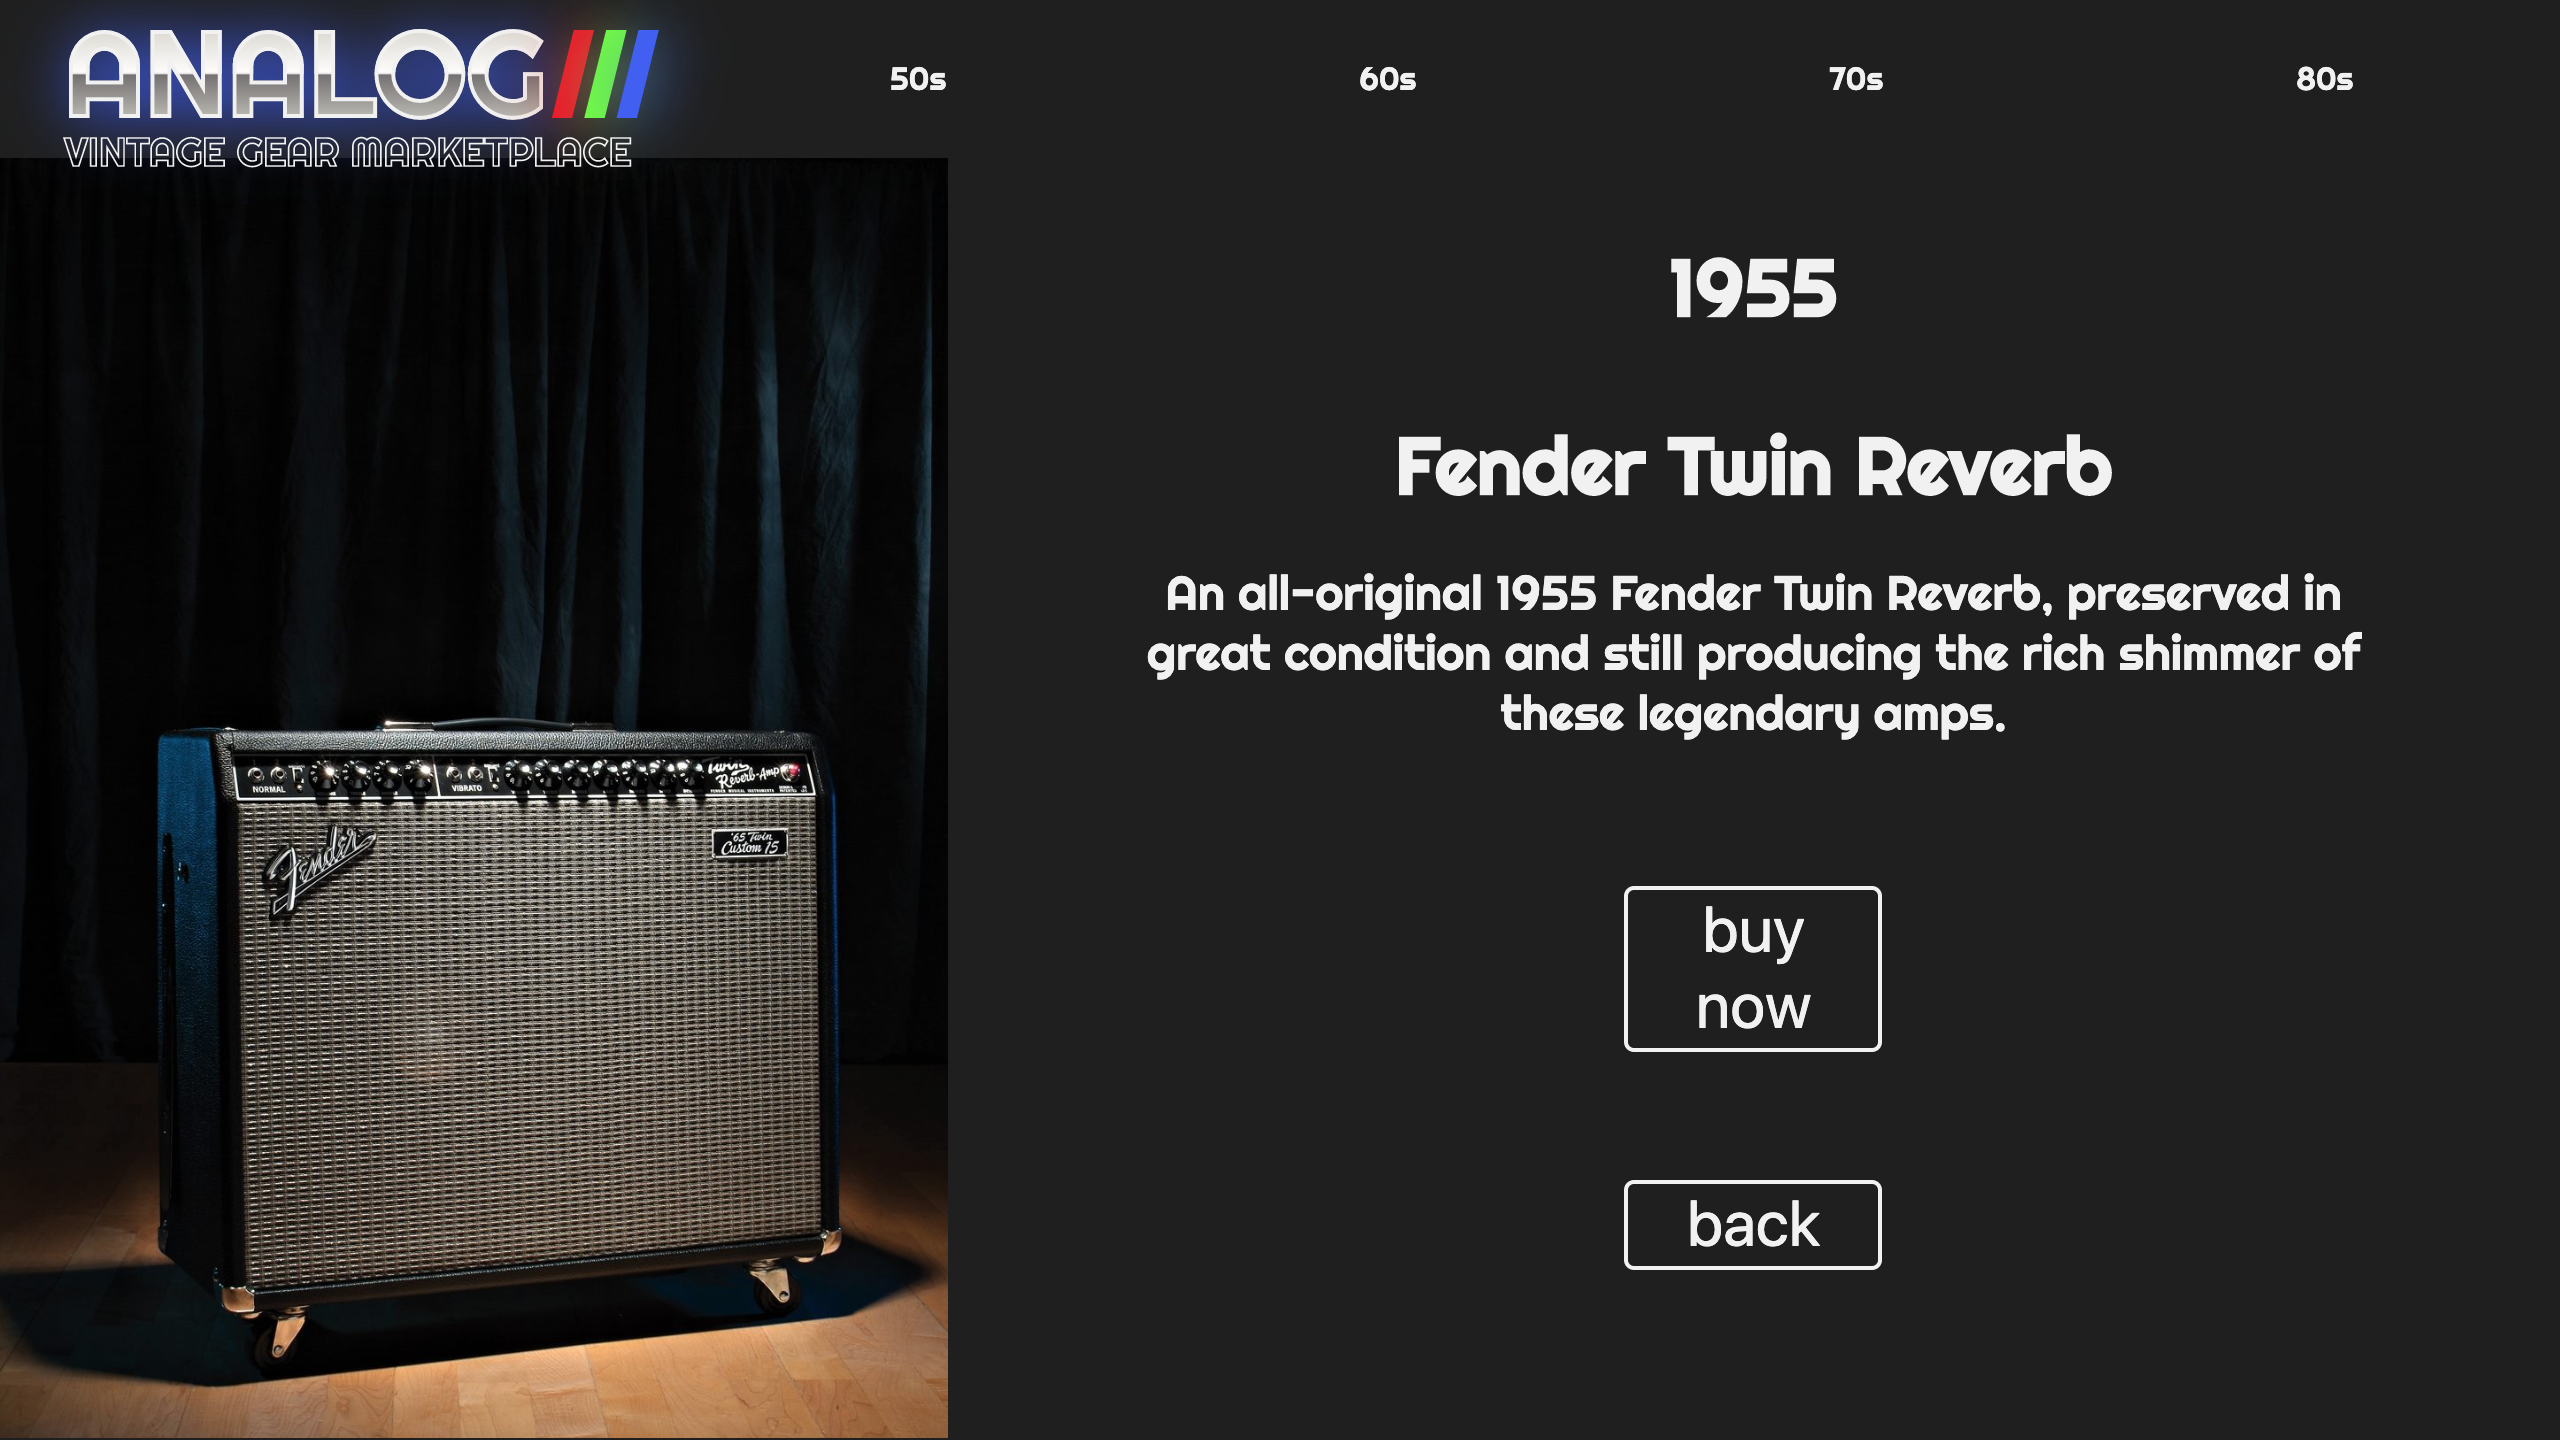
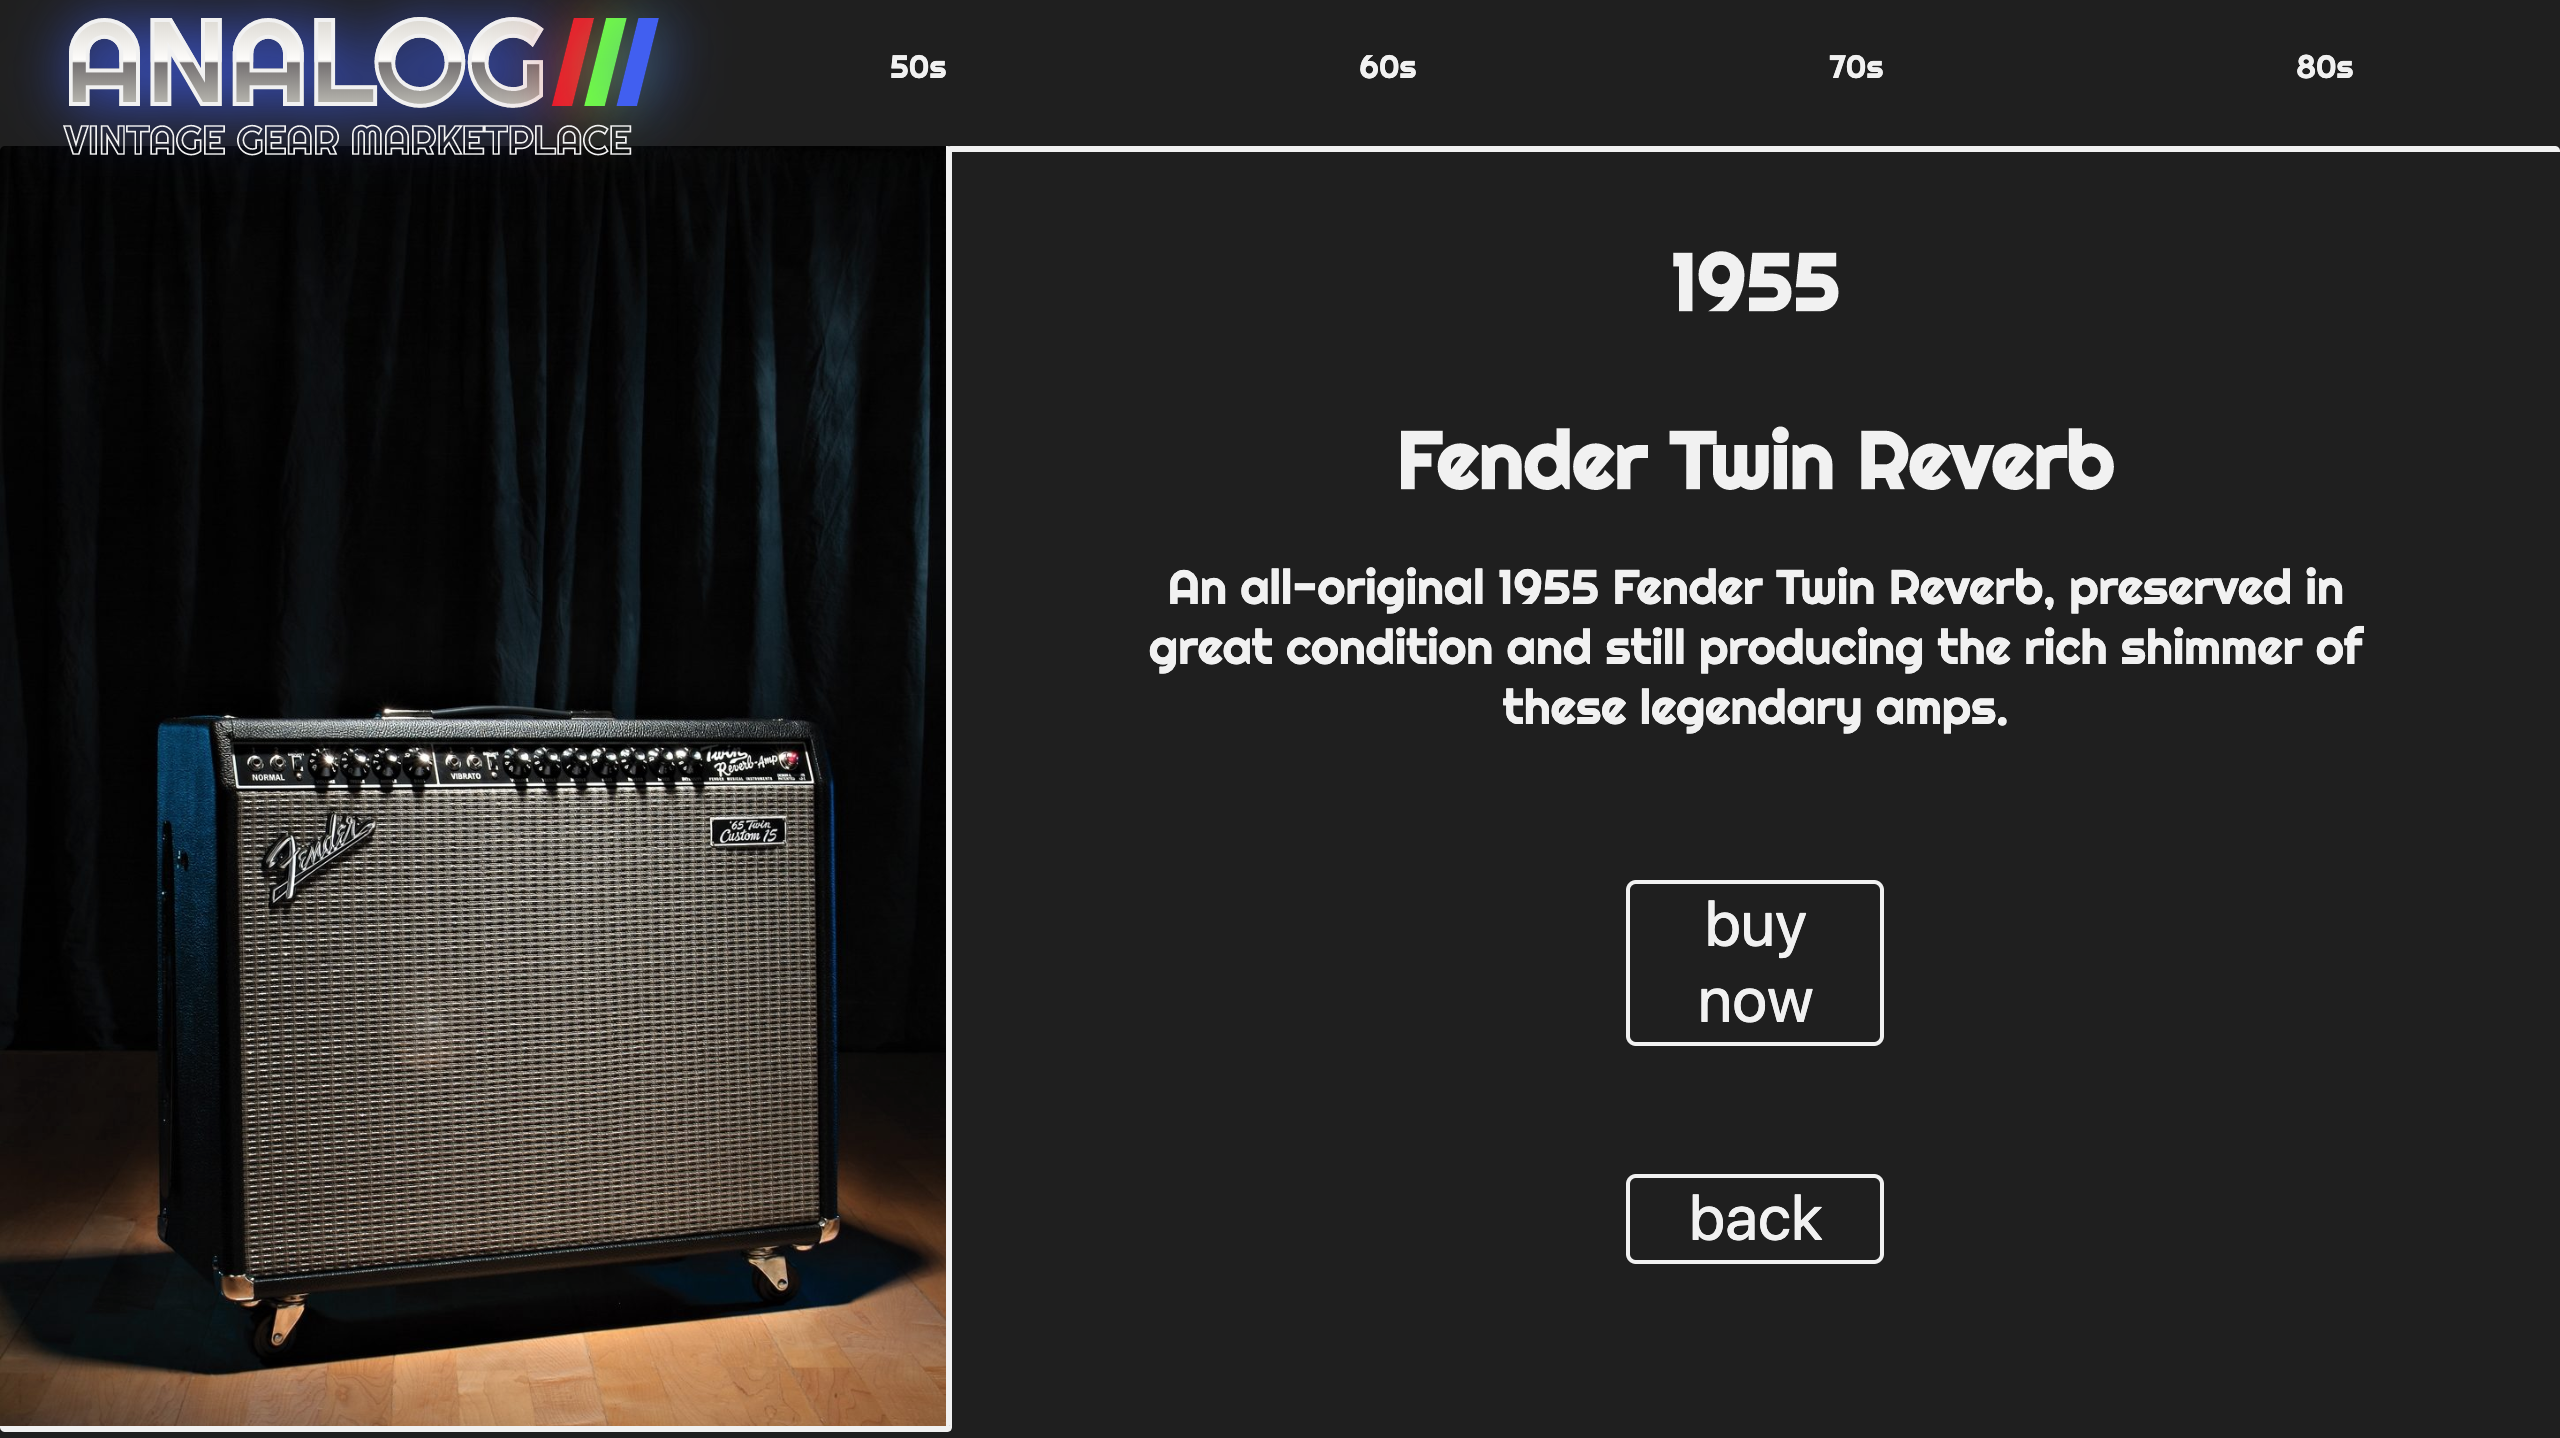
Refactoring and styles.

diff --git a/client/src/css/style.css b/client/src/css/style.css
@@ -35,7 +35,7 @@ html {
     font-size: 4em;
     animation-name: title-fade-in;
     animation-duration: 2.5s;
-    animation-timing-function: ease-in-out; }
+    animation-timing-function: linear; }
 
 .user-input-div {
   display: flex;
@@ -150,12 +150,18 @@ html {
   object-fit: cover;
   text-align: left;
   height: 100%;
-  width: 100%; }
+  width: 100%;
+  border-radius: 2.5px;
+  border-bottom: 2.5px solid #F1F1F1;
+  border-right: 2.5px solid #F1F1F1; }
 
 .big-card-layout {
   background-color: #1F1F1F;
   text-align: center;
-  padding: 0 5em 0 5em; }
+  padding: 0 5em 0 5em;
+  border-radius: 2.5px;
+  border-top: 2.5px solid #F1F1F1;
+  border-left: 2.5px solid #F1F1F1; }
 
 .big-card-h1 {
   color: #F1F1F1;
@@ -197,7 +203,8 @@ html {
     border: 2px solid #1F1F1F; }
 
 .form-component {
-  background-color: #1F1F1F; }
+  background-color: #1F1F1F;
+  margin-top: 3em; }
 
 .form-content-div {
   display: flex;
@@ -265,8 +272,8 @@ html {
   mix-blend-mode: multiply; }
 
 .sold {
-  color: #D23;
-  border: 0.5rem double #D23;
+  color: #F10C20;
+  border: 0.5rem double #F10C20;
   transform: rotate(8deg);
   -webkit-mask-position: 2rem 3rem;
   font-size: 2rem; }

diff --git a/client/src/sass/main.scss b/client/src/sass/main.scss
@@ -53,7 +53,7 @@ html {
         font-size: 4em;
         animation-name: title-fade-in;
         animation-duration: 2.5s;
-        animation-timing-function: ease-in-out;
+        animation-timing-function: linear;
     }
 }
 
@@ -216,12 +216,18 @@ html {
         text-align: left;
         height: 100%;
         width: 100%;
+        border-radius: 2.5px;
+        border-bottom: 2.5px solid $fadedWhite;
+        border-right: 2.5px solid $fadedWhite;
     }
 
     &-layout {
         background-color: $fadedBlack;
         text-align: center;
         padding: 0 5em 0 5em;
+        border-radius: 2.5px;
+        border-top: 2.5px solid $fadedWhite;
+        border-left: 2.5px solid $fadedWhite;
     }
 
     &-h1 {
@@ -276,6 +282,7 @@ html {
 
     &-component {
         background-color: $fadedBlack;
+        margin-top: 3em;
     }
 
     &-content-div {
@@ -362,8 +369,8 @@ html {
 }
 
 .sold {
-    color: #D23;
-    border: 0.5rem double #D23;
+    color: $neonRed;
+    border: 0.5rem double $neonRed;
     transform: rotate(8deg);
     -webkit-mask-position: 2rem 3rem;
     font-size: 2rem;  

diff --git a/client/src/containers/ContentContainer.js b/client/src/containers/ContentContainer.js
@@ -1,7 +1,7 @@
 import React, { Component } from 'react';
 import { Route, Switch } from "react-router-dom";
 import DecadeContainer from "./DecadeContainer";
-import HomeContainer from "./HomeContainer";
+import LandingPage from "../components/LandingPage";
 import BigCard from "../components/BigCard";
 import ItemForm from "../components/ItemForm";
 
@@ -151,7 +151,7 @@ class ContentContainer extends Component {
             <Switch>
                 <Route exact path="/"
                     render={
-                        () => <HomeContainer
+                        () => <LandingPage
                         />}
                 />
                 <Route exact path="/50s"

diff --git a/client/src/components/ItemForm.js b/client/src/components/ItemForm.js
@@ -76,7 +76,7 @@ class ItemForm extends Component {
         return ( 
             <div className="form-component">
             
-                <h1 className="form-h1">post item</h1>
+                <h1 className="form-h1">POST ITEM</h1>
 
                 <div className="form-content-div">
                     <form className="form-div" onSubmit={this.handleSubmit}>

diff --git a/client/src/components/LandingPage.js b/client/src/components/LandingPage.js
@@ -1,6 +1,6 @@
 import React, { Component } from 'react';
 
-class HomeContainer extends Component {
+class LandingPage extends Component {
     constructor(props) {
         super(props);
         this.state = {  }
@@ -19,4 +19,4 @@ class HomeContainer extends Component {
     }
 }
  
-export default HomeContainer;
+export default LandingPage;
